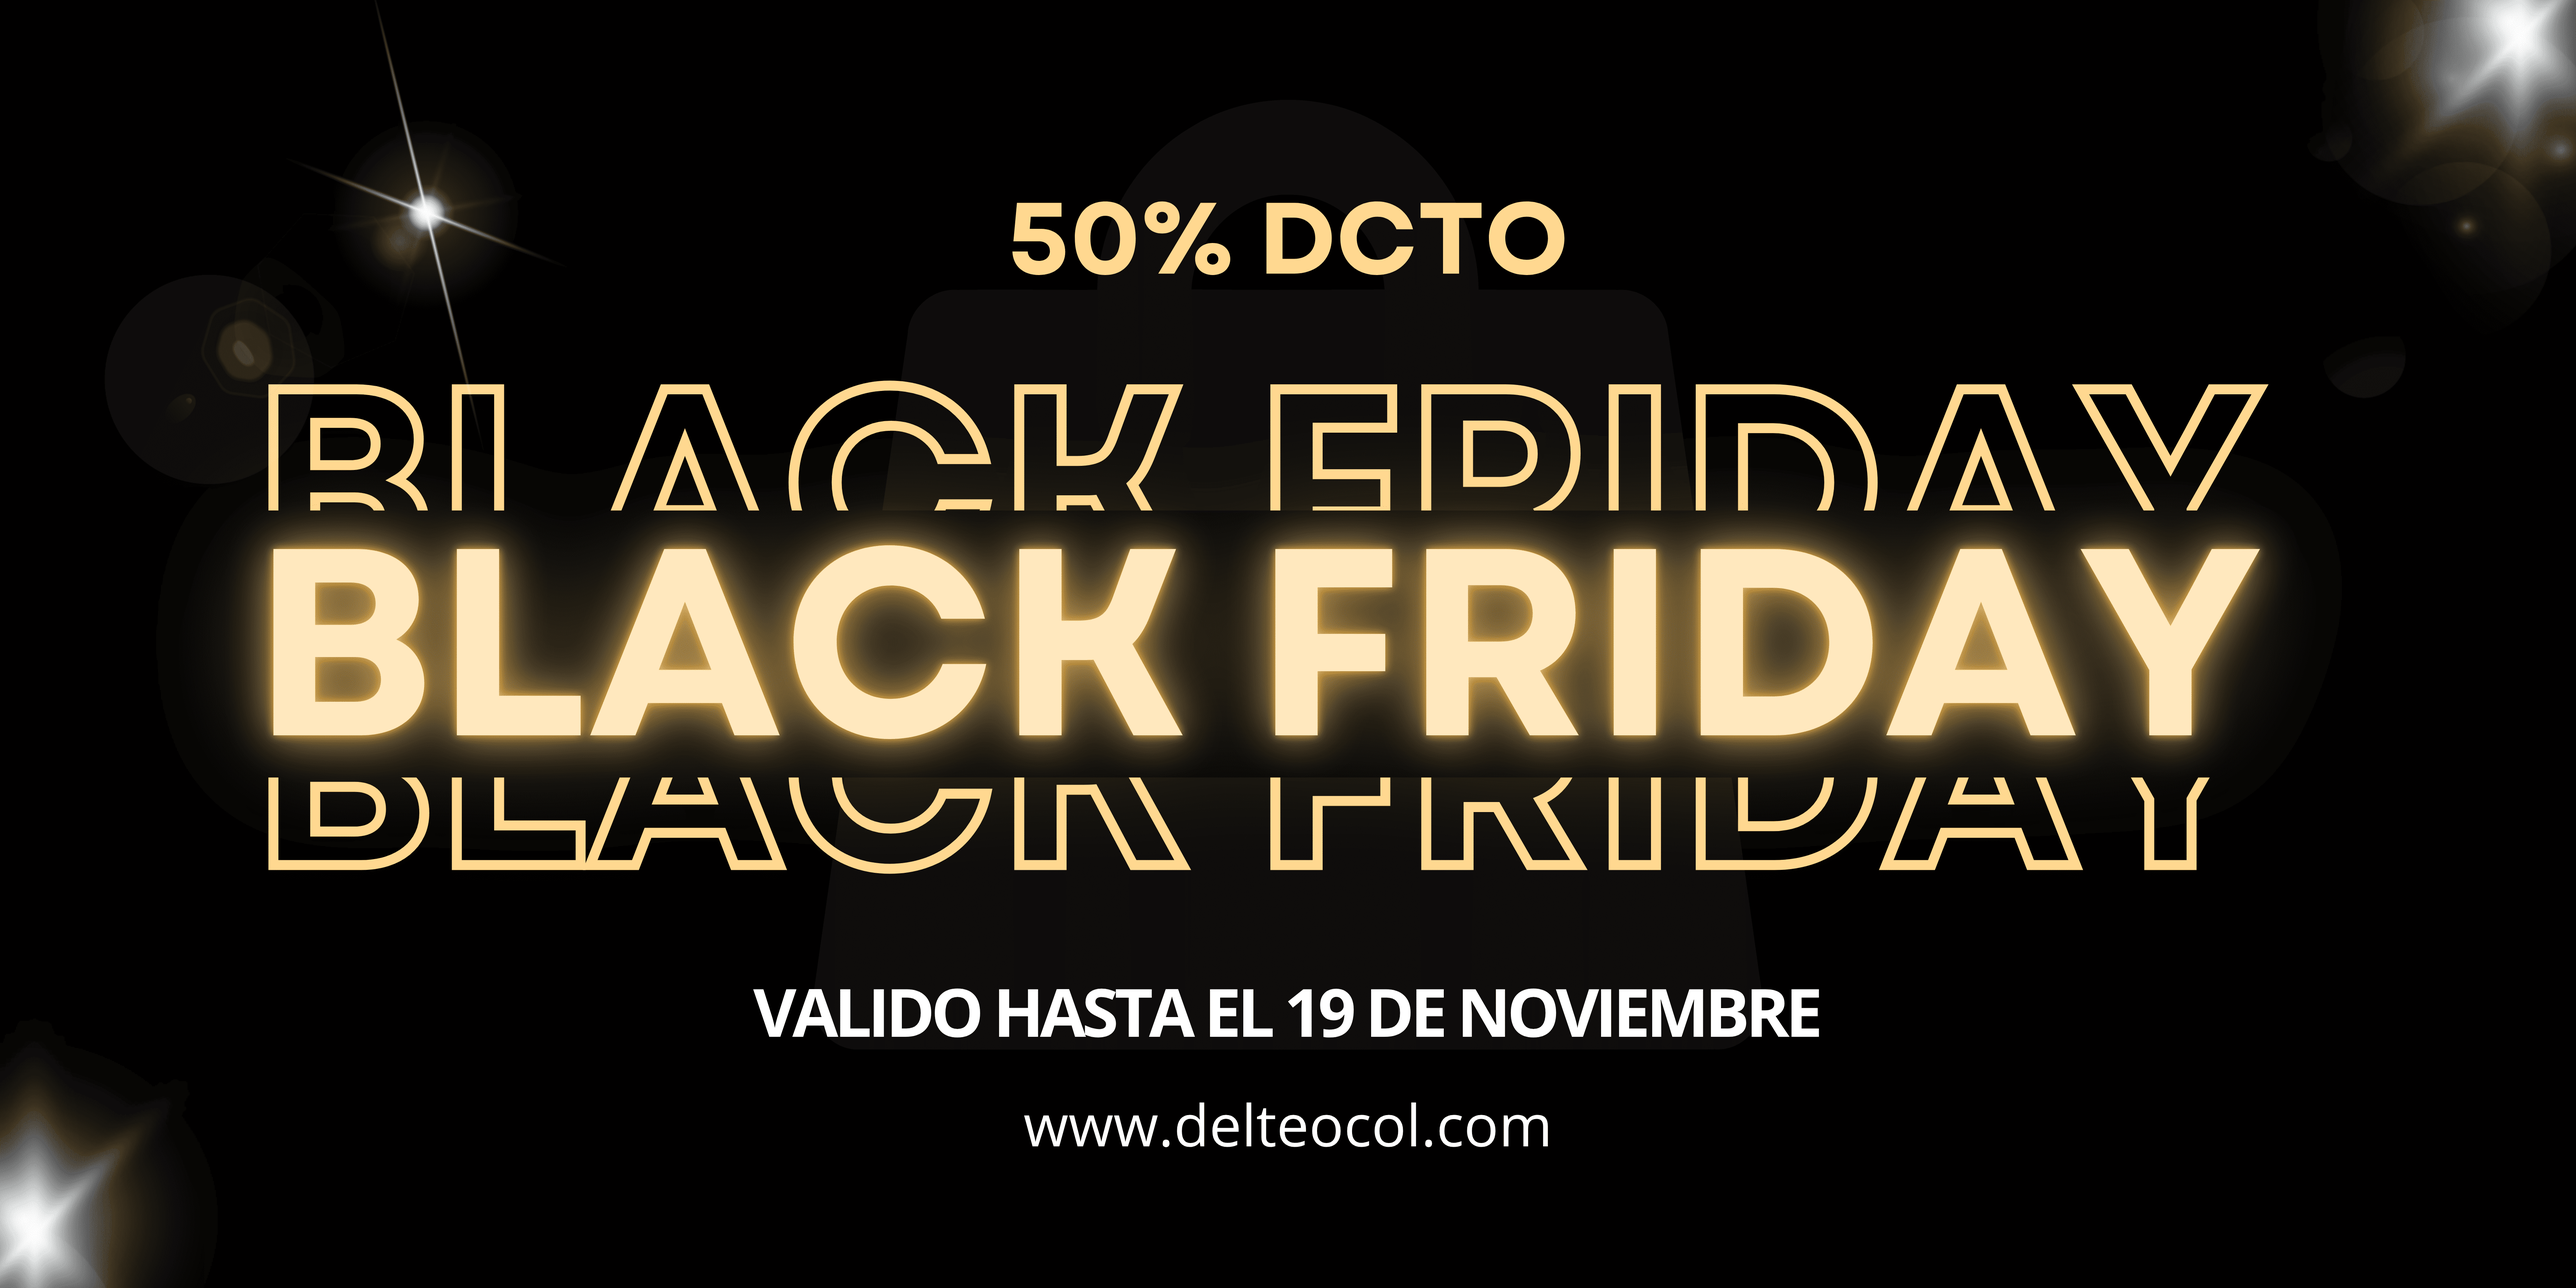
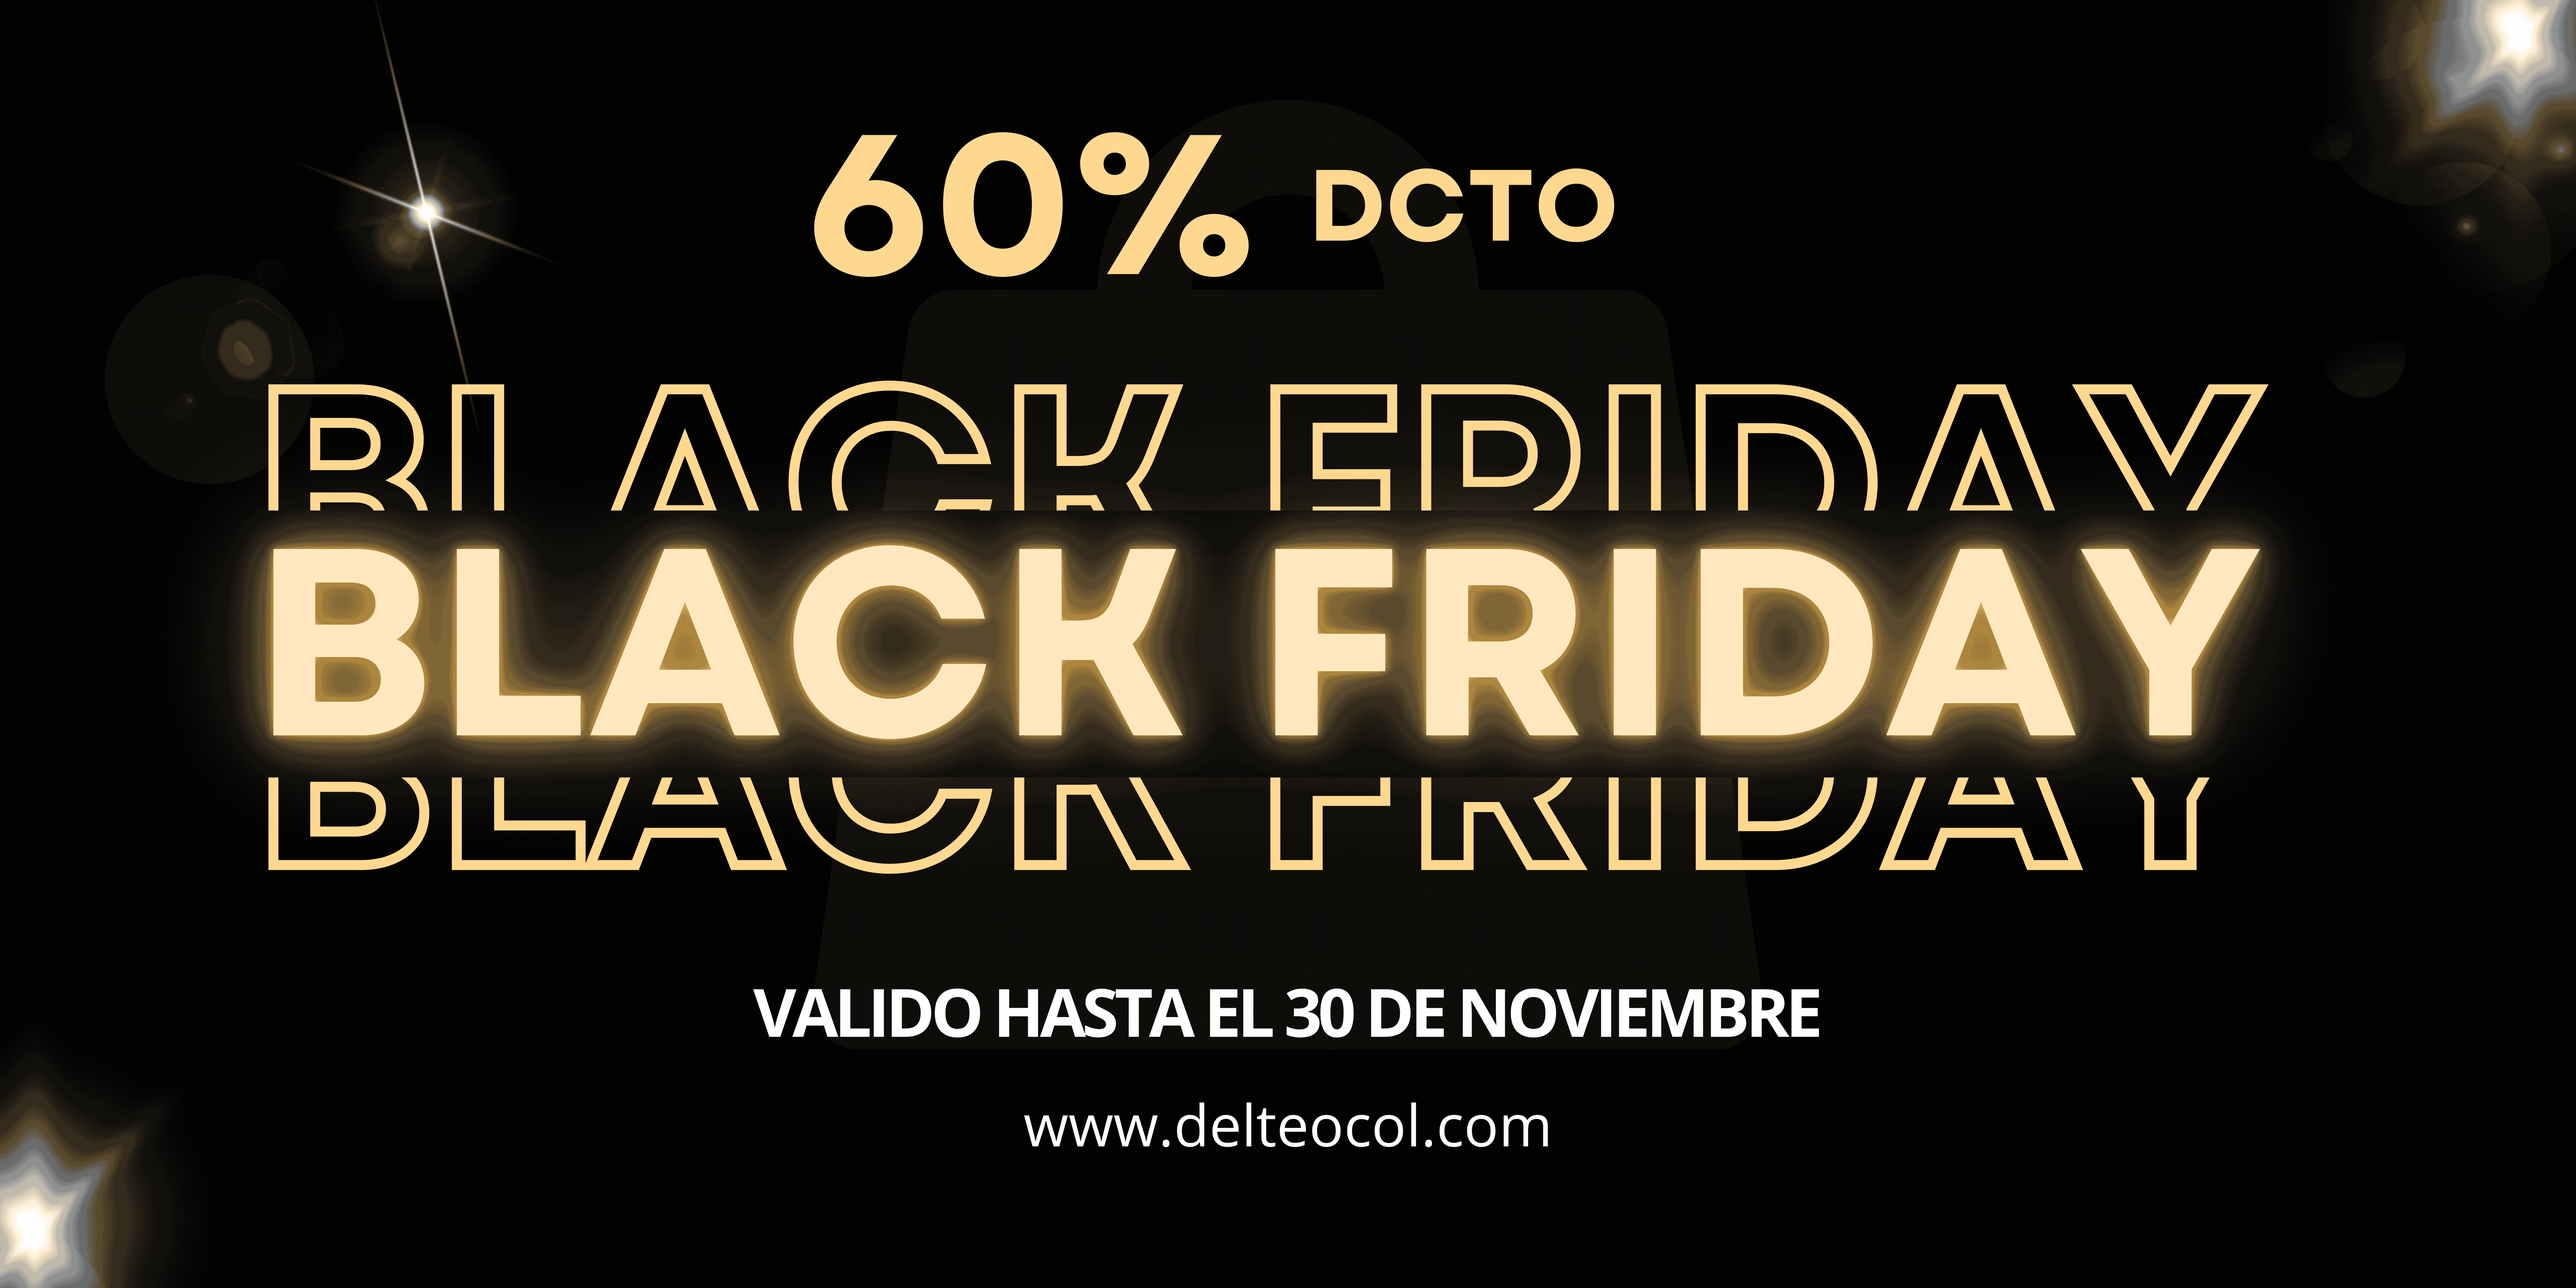
Black friday-2

diff --git a/src/paginas/Producto.jsx b/src/paginas/Producto.jsx
@@ -328,10 +328,10 @@ const Producto = () => {
               </>
             ) : (
               <>
-                <p className="precio-prod-antes">{`$${producto.precio >= 20000 ? ((producto.precio + envio.grande)*2).toLocaleString('es-CO') : ((producto.precio + envio.pequeno)*2).toLocaleString('es-CO')}`}</p>
+                <p className="precio-prod-antes">{`$${producto.precio >= 20000 ? ((producto.precio + envio.grande)/0.4).toLocaleString('es-CO') : ((producto.precio + envio.pequeno)/0.4).toLocaleString('es-CO')}`}</p>
                 <div className="flex items-center gap-3">
                   <p className="precio-prod">{`$${producto.precio >= 20000 ? (producto.precio + envio.grande).toLocaleString('es-CO') : (producto.precio + envio.pequeno).toLocaleString('es-CO')}`}</p>
-                  <p className="oferta-text">50% DESCTO</p>
+                  <p className="oferta-text">60% DESCTO</p>
                 </div>
                 
               </>

diff --git a/src/components/Header.jsx b/src/components/Header.jsx
@@ -7,7 +7,7 @@ const Header = () => {
     const { pagina, contador, setContador } = usePagina();
     const [menu, setmenu] = useState(false);
     const [anuncio, setAnuncio] = useState(0);
-    const anuncios = ['ENVÍO GRATIS - 1-3 DIAS HÁBILES', 'BLACK FRIDAY - 50% DCTO']
+    const anuncios = ['ENVÍO GRATIS - 1-3 DIAS HÁBILES', 'BLACK FRIDAY - 60% DCTO']
 
     useEffect(() => {
         const cont = JSON.parse(localStorage.getItem('carritojammy')) || []

diff --git a/src/components/Productosdb.jsx b/src/components/Productosdb.jsx
@@ -89,7 +89,7 @@ const productosdb = [
             }
             
         ],
-        status: "disponible",
+        status: "No Stock",
         colores: "Unicolor",
         edad: ["+8"],
         edad2: "+8",
